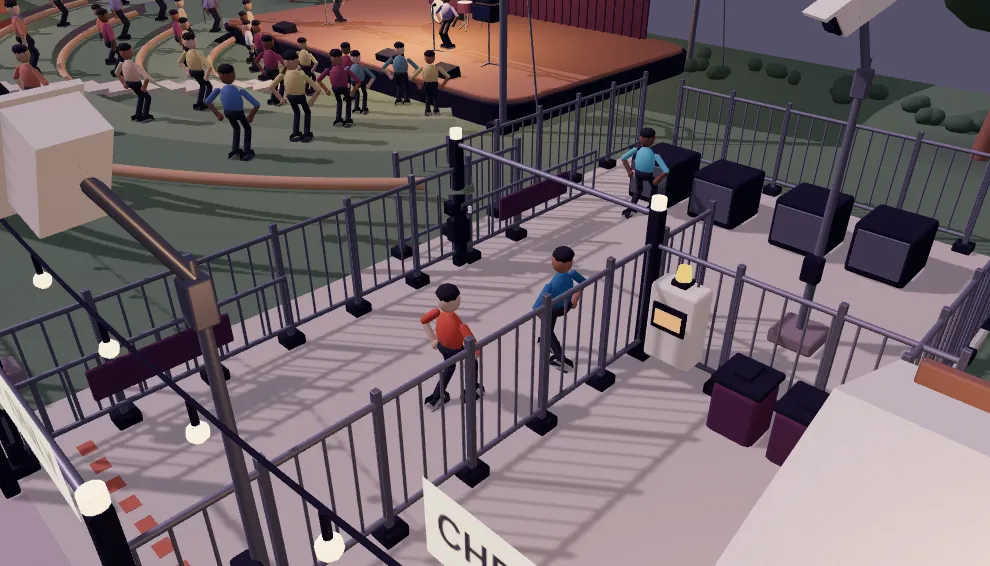
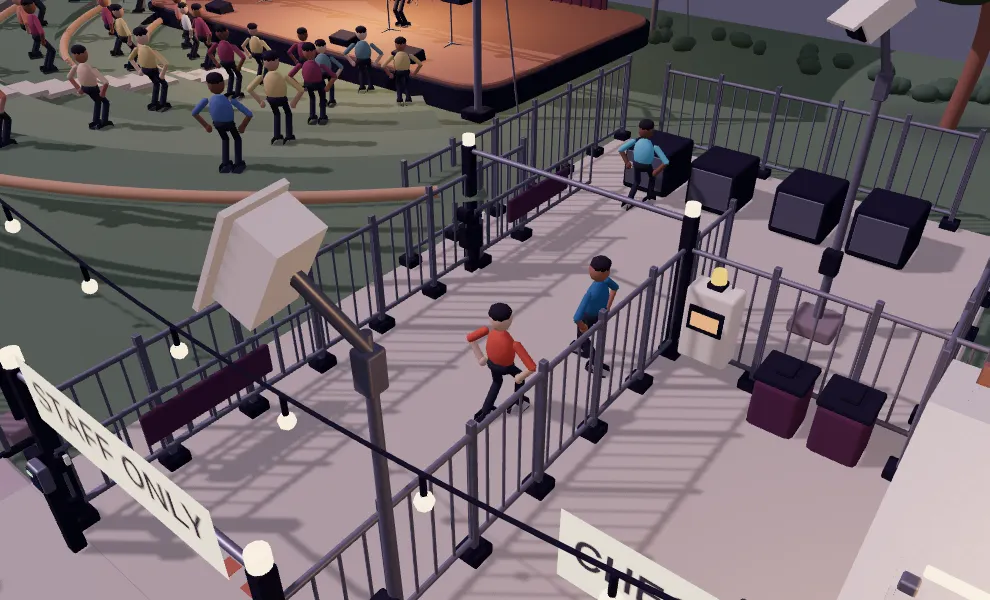
Make event incident continuous and automatic
Replace camera jumps with authored PCHIP routes and give the operator review
six seconds inside the 88-second story. A single monotone physical clock
preserves credential, steward, security and public-flow relationships.
Regenerate all 15 state stills and the poster with verified phone crops.

Validate complete normal desktop/phone playback plus the bounded final
travel correction, source continuity and sampled clearance, mapped poses,
controls and fallback states, type/contract checks and production build.
Retain unchanged physical and resource evidence with exact input bindings.

Codex-Agent: tessure-s4
Codex-Session: 01a0d08f-9f9e-70b1-a475-16b19638e380

diff --git a/site/components/worlds/scenes/event-overlay/content.ts b/site/components/worlds/scenes/event-overlay/content.ts
@@ -1,40 +1,46 @@
 import type { CameraKey, ScenarioVariant, SceneDefinition } from '../../contract'
-import { T } from './incident'
-const view=(at:number,position:[number,number,number],target:[number,number,number],mobilePosition=position,mobileTarget=target,cut=true,fov=42):CameraKey=>({at,position,target,mobilePosition,mobileTarget,cut,fov,easing:'smoother'})
+import { storyT as T } from './timeline'
+const view=(at:number,position:[number,number,number],target:[number,number,number],mobilePosition=position,mobileTarget=target,fov=42):CameraKey=>({at,position,target,mobilePosition,mobileTarget,fov,interpolation:'pchip'})
 export const incident:ScenarioVariant={
  id:'staff-passage-breach',label:'Breach during a crowd pinch',role:'primary',duration:T.end,
  lesson:'Separate a restricted-access incident from public crowd pressure. Correlate physical passages with access events, hold the inner boundary and coordinate security with stewards without closing public exits.',
  establishing:{title:'Two routes beside an evening performance',body:'Authored red-team simulation. A teal-clad stage worker approaches the staff entrance; an orange-clad intruder follows. Yellow-clad stewards manage public arrivals and returns on the adjacent concourse. Blue-clad security staffs the inner boundary and public-side checkpoint. These are fictional roles, not identities inferred by sensing.',evidence:[{kind:'uncertainty',source:'Authored scenario',detail:'Roles and intent are scripted ground truth. Public-flow observations remain anonymous.'}]},
  poster:'/worlds/event-overlay/poster.webp',posterAlt:'Violet evening amphitheatre with a restricted staff passage beside two public streams, a staffed checkpoint and separate timber relief route.',
  cameras:[
- view(0,[33,30,41],[0,1,3],[24,29,38],[1,1,5]),
- // Phone detail holds through the reach, reader response and credential withdrawal.
- view(4,[15,9,20],[7,1,8.4],[3.9,2.55,12.2],[5.85,1.18,8.85]),
- view(T.detect,[12.5,5.4,15.7],[6.8,1.1,8.6],[3.9,2.55,12.2],[5.85,1.18,8.85]),
- view(8.5,[12.5,5.4,15.7],[6.8,1.1,8.6],[11.4,5.4,14.8],[6.9,1.1,8.5]),
- view(11,[12.5,5.4,15.7],[6.8,1.1,8.6],[11.4,5.4,14.8],[6.9,1.1,8.5],false),
- view(14,[12.5,6.5,14.7],[7,1,6.8],[11.7,6.3,14.3],[7,1.1,7.2],false),
- view(T.verify,[14,10,16],[7.3,1.4,6.5],[13.5,9.7,16],[7.3,1.4,6.5]),
+ // The route opens over both systems, settles at the reader, then follows the passage.
+ view(0,[28,24,35],[0,1,5],[24,25,34],[1,1,6]),
+ view(5,[3,3.2,13.4],[6.1,1.1,8.8],[3.9,2.55,12.2],[5.85,1.18,8.85]),
+ view(8.3,[3,3.2,13.4],[6.1,1.1,8.8],[3.9,2.55,12.2],[5.85,1.18,8.85]),
+ view(11,[12.5,5.4,15.7],[6.8,1.1,8.6],[11.4,5.4,14.8],[6.9,1.1,8.5]),
+ view(16,[12.5,6.5,14.7],[7,1,6.8],[11.7,6.3,14.3],[7,1.1,7.2]),
  view(22,[14,7,10],[7.5,1.2,2.8],[14.5,9.5,12.5],[8.4,1.9,3]),
- view(T.correlate,[14.5,7.5,8],[8,1.2,2.4],[13.3,7.5,8.4],[8,1.3,2.4]),
- view(T.decide,[22,18,29],[2,1,9],[15,21,30],[2,1,10]),
- view(T.respond,[13.5,6.4,9],[7.3,1.2,2.7],[12.4,6.4,9],[7.3,1.2,2.7]),
- view(37.8,[13.5,6.4,9],[7.3,1.2,2.7],[12.4,6.4,9],[7.3,1.2,2.7],false),
- // Separate phone shots connect each planted operator to the moving mechanism.
- view(38.5,[.5,7.6,23],[-6.9,1,14.5],[-10.7,2.9,17.8],[-7.9,1.13,14.1]),
- view(40.3,[.5,7.6,23],[-6.9,1,14.5],[-1,3.7,10],[-3.8,1,14]),
- // The relief leaf has finished opening; let the phone read the held stop arm before release.
- view(41.8,[.5,7.6,23],[-6.9,1,14.5],[5,3.2,6.5],[7.08,1.05,3.75]),
- view(T.reliefReady,[.5,7.6,23],[-6.9,1,14.5],[5,3.2,6.5],[7.08,1.05,3.75],false),
- view(T.stopView,[1,7.5,10],[7.3,1,4],[5,3.2,6.5],[7.08,1.05,3.75]),
- view(51,[1.3,8,15],[7.4,1,7.6],[1.3,8,15],[7.4,1.1,7.6],false),
- view(55,[4,13,26],[-3,1,13.5],[2,12,23],[-4,1.1,13.8]),
- view(61,[17.5,7.1,15.5],[10.8,1.2,8.1],[17,7.2,15.5],[10.8,1.2,8.1]),
- view(T.checkpoint,[17.5,7.1,15.5],[10.8,1.2,8.1],[17,7.2,15.5],[10.8,1.2,8.1],false),
- view(T.resolve,[24,20,32],[2,1,9],[16,22,32],[2,1,10]),
- view(75,[12,13,25],[5,1,13],[12,14,25],[5,1,13]),
- view(82,[17.5,7.1,15.5],[10.8,1.2,8.1],[17,7.2,15.5],[10.8,1.2,8.1]),
- view(T.end,[25,23,35],[1,1,8],[18,24,35],[2,1,10]),
+ view(27,[14.5,7.5,8],[8,1.2,2.4],[13.3,7.5,8.4],[8,1.3,2.4]),
+ // A readable six-second in-story review; the camera retains both public and staff routes.
+ view(32,[22,18,29],[2,1,9],[15,21,30],[2,1,10]),
+ view(35,[22,18,29],[2,1,9],[15,21,30],[2,1,10]),
+ view(38.5,[13.5,6.4,9],[7.3,1.2,2.7],[12.4,6.4,9],[7.3,1.2,2.7]),
+ view(40,[13.5,6.4,9],[7.3,1.2,2.7],[12.4,6.4,9],[7.3,1.2,2.7]),
+ // Rise across the concourse, then show each independent manual operation.
+ view(42,[-1,9,19],[-3,1,12],[-1,9,19],[-3,1,12]),
+ view(44,[-10.7,2.9,17.8],[-7.9,1.13,14.1]),
+ view(46.5,[-10.7,2.9,17.8],[-7.9,1.13,14.1]),
+ view(48.4,[-13.2,4.5,12],[-7,1,14]),
+ view(50.2,[-6,4,9],[-5,1,14]),
+ view(51.5,[-1,3.7,10],[-3.8,1,14]),
+ view(52.8,[-1,3.7,10],[-3.8,1,14]),
+ // Orbit the view target rather than crossing over it, then clear the staff fence.
+ view(55,[4,7,16],[-4,1,13]),
+ view(56.7,[1,10,24],[1,1,10]),
+ view(58.3,[5,5.7,6.5],[7.08,1.05,3.75]),
+ view(59,[5,3.2,6.5],[7.08,1.05,3.75]),
+ view(60,[5,3.2,6.5],[7.08,1.05,3.75]),
+ view(62,[5,6,7],[7.3,1,5]),
+ view(64,[1.3,8,15],[7.4,1,7.6],[1.3,8,15],[7.4,1.1,7.6]),
+ view(68,[4,13,26],[-3,1,13.5],[2,12,23],[-4,1.1,13.8]),
+ view(73,[17.5,7.1,15.5],[10.8,1.2,8.1],[17,7.2,15.5],[10.8,1.2,8.1]),
+ view(76,[17.5,7.1,15.5],[10.8,1.2,8.1],[17,7.2,15.5],[10.8,1.2,8.1]),
+ view(81,[24,20,32],[2,1,9],[16,22,32],[2,1,10]),
+ view(88,[25,23,35],[1,1,8],[18,24,35],[2,1,10]),
  ],
  beats:[
  {id:'detect',at:T.detect,title:'One credential, an open staff passage',body:'The authorized worker presents a credential. One access permission opens the staff gate. The orange-clad intruder waits directly behind, separate from the public streams.',evidence:[{kind:'observed',source:'Staff reader · illustrative record',detail:'One permitted entry event, followed by the opening contact.'}],subevents:[
@@ -42,8 +48,8 @@ export const incident:ScenarioVariant={
  {id:'second-crossing',at:T.secondPassage,title:'A second person crosses',body:'After the worker passes, the intruder follows through the same opening without another access event and continues beyond the restricted line. Public arrivals and returns slow independently at the adjacent pinch.',evidence:[{kind:'observed',source:'C1 · Staff passage',detail:'Two physical passages through one opening; no face identification.'},{kind:'observed',source:'Reader/contact records',detail:'One permitted opening; no second credential event in this script.'}]}]},
  {id:'verify',at:T.verify,title:'Continue the track; keep crowd pressure separate',body:'C1 observes the entrance crossing. C2 observes continued movement toward backstage. The permitted worker proceeds to the equipment apron while the intruder remains in the approach corridor. Opposing public flows have stopped at the nearby pinch.',evidence:[{kind:'observed',source:'C1 + C2 fixed views',detail:'Entrance passage and backstage approach are separate, partial views.'},{kind:'observed',source:'Anonymous public-flow observation',detail:'Two public directions slow at the adjacent concourse; no density estimate or individual identity.'},{kind:'uncertainty',source:'Coverage limits',detail:'Illustrative sectors are partial; fencing, equipment and other people can obscure a view.'}]},
  {id:'correlate',at:T.correlate,title:'Access mismatch beside public pressure',body:'Proposed local correlation links the second crossing, single permission and continued backstage approach. The controller raises a review cue and holds new inner-access permissions by site policy. The intruder pauses short of the inner boundary. Public exits stay usable.',evidence:[{kind:'correlation',source:'Proposed local controller',detail:'One permission + second physical crossing + continued approach form one reviewable incident.'},{kind:'response',source:'Preauthorized access policy',detail:'New inner-access release is held pending staff verification; the public outlet is unchanged.'},{kind:'uncertainty',source:'Investigation',detail:'Intent is authored ground truth, not an inference from clothing or camera appearance.'}]},
- {id:'decide',at:T.decide,title:'Protect backstage and open the relief route',body:'Security will secure the clear inner gate and guide the intruder to the public-side checkpoint. Stewards will turn the sign, open the separate relief gate and split public flow. The two responses have different purposes.',action:'Protect backstage and open the relief route',evidence:[{kind:'observed',source:'Current physical state',detail:'Intruder short of equipment; public streams held at the pinch; relief gate still closed.'},{kind:'uncertainty',source:'Human review',detail:'Staff must verify access authority. The illustration does not establish guilt or a safety-performance result.'}]},
- {id:'respond',at:T.respond,title:'Two teams, two controlled actions',body:'After approval, security secures the clear inner staff gate through the local controller and approaches the stopped intruder. Both stewards move to the public relief entrance. No gate closes across a person and no public exit is locked.',evidence:[{kind:'response',source:'Authorized response',detail:'Inner staff gate closes in a clear opening; security and stewards take separate positions.'}],subevents:[
+ {id:'decide',at:T.decide,title:'Protect backstage and open the relief route',body:'During this authored review, the operator directs security to secure the clear inner gate and guide the intruder to the public-side checkpoint. Stewards will turn the sign, open the separate relief gate and split public flow. The two responses have different purposes.',action:'Protect backstage and open the relief route',evidence:[{kind:'observed',source:'Current physical state',detail:'Intruder short of equipment; public streams held at the pinch; relief gate still closed.'},{kind:'uncertainty',source:'Human review',detail:'Staff must verify access authority. The illustration does not establish guilt or a safety-performance result.'}]},
+ {id:'respond',at:T.respond,title:'Two teams, two controlled actions',body:'After the operator’s review, security secures the clear inner staff gate through the local controller and approaches the stopped intruder. Both stewards move to the public relief entrance. No gate closes across a person and no public exit is locked.',evidence:[{kind:'response',source:'Authorized response',detail:'Inner staff gate closes in a clear opening; security and stewards take separate positions.'}],subevents:[
  {id:'inner-secured',at:T.innerClosed,title:'The inner boundary is secured',body:'The inner gate finishes closing behind the security officer. The worker remains on the equipment side. The intruder is on the approach side, short of both officer and gate.',evidence:[{kind:'observed',source:'Inner gate/contact',detail:'Closed inner boundary; no person in its swept opening.'}]},
  {id:'hands-on-relief',at:T.signStart,title:'Stewards operate the public route',body:'One steward grips the sign crank; the second reaches the relief-gate crank. The sign post and weighted base stay planted as its head turns. The relief leaf swings into the unused verge before public flow resumes.',evidence:[{kind:'response',source:'Steward actions',detail:'Visible hand contact turns the sign head and the geared relief-gate crank; public streams still held.'}]},
  {id:'relief-open',at:T.reliefReady,title:'The alternative opens before arrivals move',body:'The gate is fully open and the sign points toward the timber frontage. Arrivals behind the steward begin taking the relief route while returning visitors keep the concourse. Stewards guide the split.',evidence:[{kind:'response',source:'Public route',detail:'Gate clear and wayfinding turned before redirected foot traffic starts.'}]},

diff --git a/site/components/worlds/scenes/event-overlay/index.tsx b/site/components/worlds/scenes/event-overlay/index.tsx
@@ -12,6 +12,7 @@ import { Crowd } from './crowd'
 import { Access, makeAccess } from './access'
 import { Flow } from './sources'
 import { arrivalSign, exitSign, signPivot } from './layout'
+import { motionTime } from './timeline'
 function Parts({parts}:{parts:Part[]}){return <>{parts.map((p,i)=><mesh key={i} geometry={p.geometry} material={p.material} castShadow={!p.material.userData.noShadow} receiveShadow dispose={null}/>)}</>}
 function contactTexture(){const data=new Uint8Array(32*32*4);for(let y=0;y<32;y++)for(let x=0;x<32;x++){const i=(y*32+x)*4,r=((x-15.5)/15.5)**2+((y-15.5)/15.5)**2;data[i]=data[i+1]=data[i+2]=255;data[i+3]=Math.round(Math.max(0,1-r)**2*190)}const tx=new DataTexture(data,32,32,RGBAFormat);tx.magFilter=tx.minFilter=LinearFilter;tx.needsUpdate=true;return tx}
 function Grounding(){
@@ -21,7 +22,10 @@ function Grounding(){
  useLayoutEffect(()=>{const o=new Object3D();items.forEach(([x,z,w,d],i)=>{o.position.set(x,.075,z);o.rotation.set(-Math.PI/2,0,0);o.scale.set(w,d,1);o.updateMatrix();ref.current!.setMatrixAt(i,o.matrix)});ref.current!.instanceMatrix.needsUpdate=true;ref.current!.computeBoundingSphere();const mesh=ref.current!;return()=>{mesh.dispose()}},[])
  return <instancedMesh ref={ref} args={[undefined,undefined,9]}><planeGeometry/><meshBasicMaterial color="#292535" map={texture} transparent opacity={.34} depthWrite={false}/></instancedMesh>
 }
-function World({clock,quality,layers}:WorldProps){
+function World({clock:storyClock,quality,layers}:WorldProps){
+ const clock=useRef({time:motionTime(storyClock.current.time),playing:storyClock.current.playing})
+ // Director advances the story at -100; all owned objects read this same physical time.
+ useFrame(()=>{clock.current.time=motionTime(storyClock.current.time);clock.current.playing=storyClock.current.playing},-50)
  const high=quality==='high',m=useMemo(materials,[]),site=useMemo(()=>makeSite(m,high),[m,high]),access=useMemo(()=>makeAccess(m,high),[m,high]),occluders=useMemo(()=>[...site,...access],[site,access]),stand=useMemo(()=>makeSign(m,high),[m,high]),head=useMemo(()=>makeSign(m,high,true),[m,high]),contact=useMemo(contactTexture,[]),board=useRef<Group>(null)
  const contacts=useMemo(()=>{const a=assembly(m,high);for(const [x,z,w,d] of [[-7,-9,15.7,9.4],[15,4.5,5.5,3.6],[19,-2,5,3.6],[-19,3,4.8,3.6]])a.box([x,.012,z],[w,.009,d],'earth',0);return a.finish()},[m,high])
  useEffect(()=>()=>[...site,...access,...stand,...head,...contacts].forEach(p=>p.geometry.dispose()),[site,access,stand,head,contacts]);useEffect(()=>()=>contact.dispose(),[contact]);useEffect(()=>()=>Object.values(m).forEach(mat=>{mat.map?.dispose();mat.dispose()}),[m])

diff --git a/site/components/worlds/scenes/event-overlay/timeline.ts b/site/components/worlds/scenes/event-overlay/timeline.ts
@@ -1,0 +1,20 @@
+import type { CameraKey } from '../../contract'
+import { sampleCamera } from '../../math'
+import { T } from './incident'
+
+// One monotone clock keeps every tested physical relationship intact. The story
+// gives review, hand operation and camera travel time without a viewer gate.
+export const timeMap: [number, number][] = [
+  [0,0],[1,1],[26,26],[27,27],[32,34],[38,34.2],
+  [40,37],[44,38.5],[44.9,39.25],[45,39.3],[47,40],[53,41.3],
+  [54,42.2],[59,42.5],[60,43],[61,44],[76,65],[79,68],[88,88],
+]
+const clockKeys:CameraKey[]=timeMap.map(([at,time])=>({at,position:[time,0,0],target:[0,0,0],interpolation:'pchip'}))
+export const motionTime=(time:number)=>sampleCamera(clockKeys,time,false).position[0]
+export function storyTime(physical:number){
+  let low=0,high:number=T.end
+  for(let i=0;i<48;i++){const mid=(low+high)/2;if(motionTime(mid)<physical)low=mid;else high=mid}
+  // Narrative completion cues never precede the corresponding physical state.
+  return Math.ceil((high-1e-8)*10)/10
+}
+export const storyT=Object.fromEntries(Object.entries(T).map(([key,time])=>[key,storyTime(time)])) as Record<keyof typeof T,number>
